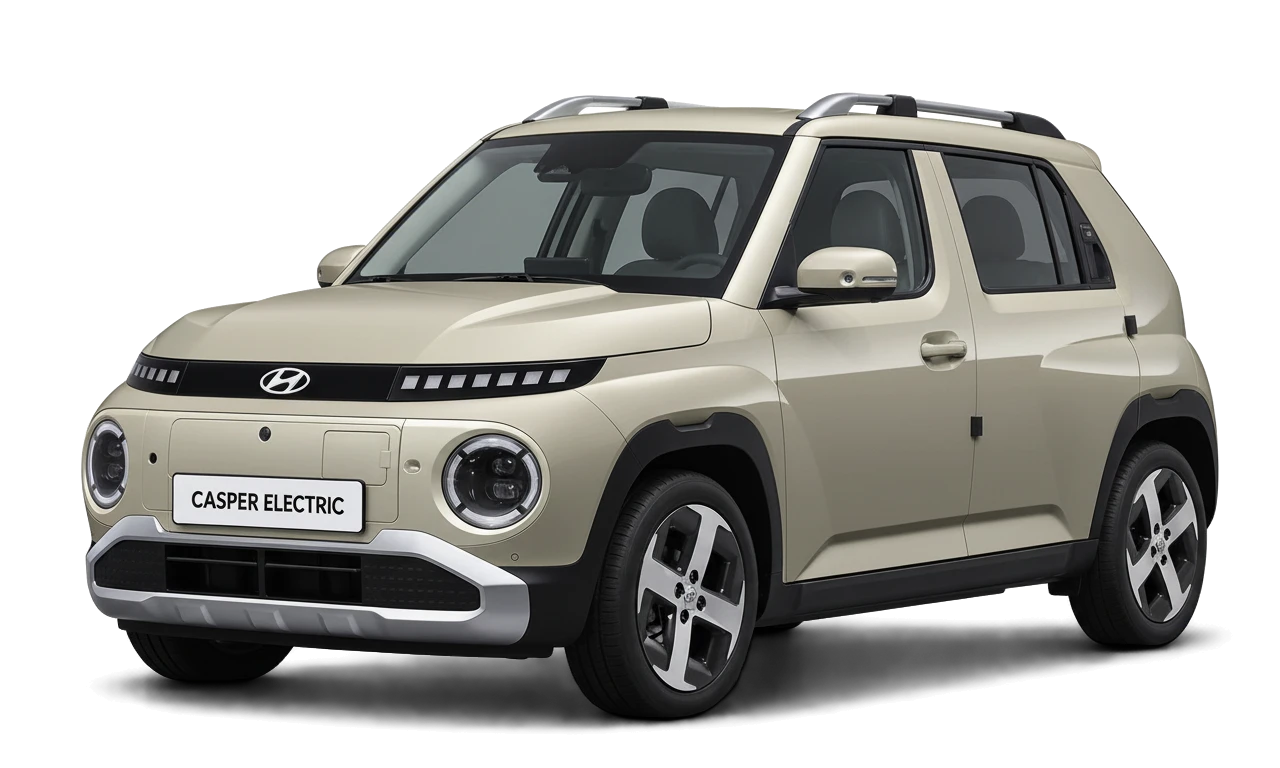
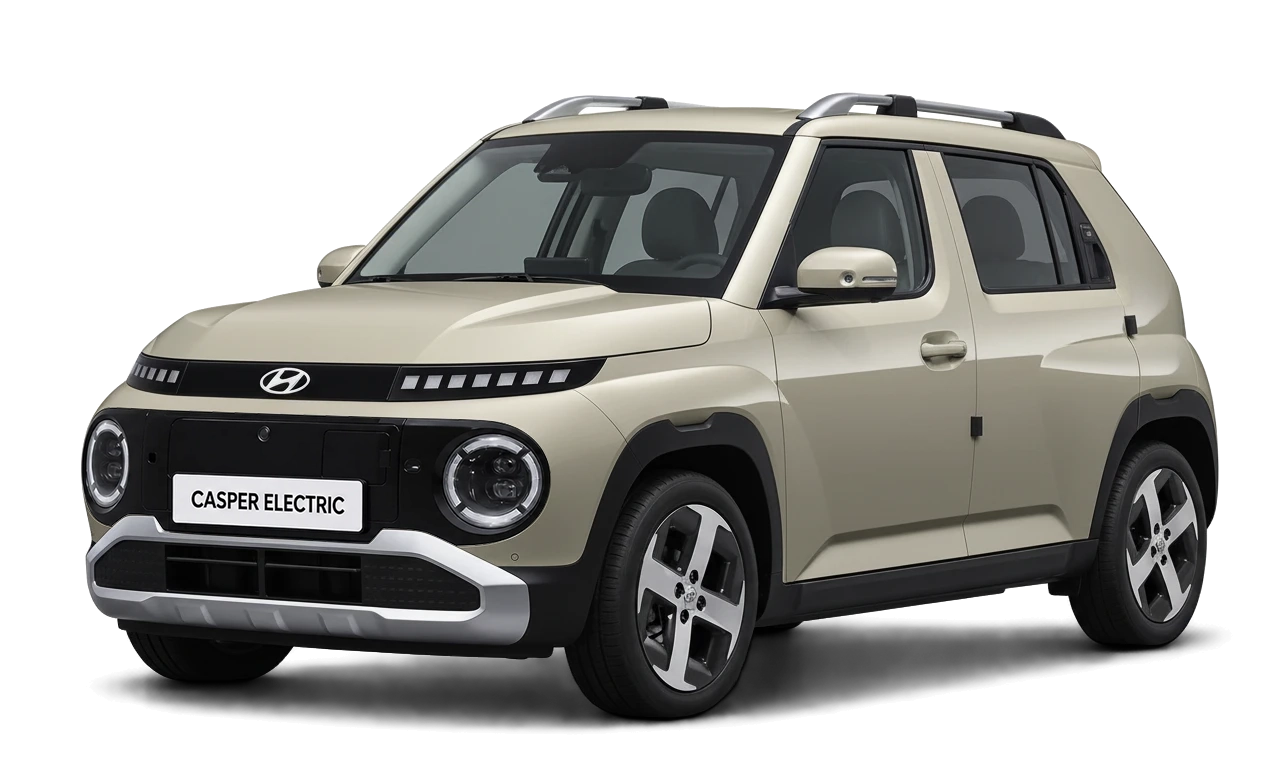
색상칩 HEX 반영 · 스포티지/셀토스 스노우 화이트 펄 · 캐스퍼 일렉트릭 언블리치드 아이보리 이미지 교체
- 재고·견적 색상칩: 이름 대략색 대신 차량 데이터 HEX (트림 색상 정확 일치 → 포함 일치 → 같은 브랜드), 못 찾으면 기존 이름 대략색
- 외장 302/338 · 내장 310/338 HEX 적용 (나머지: 테슬라 영문 색상명 등 → 이름 대략색)
- 셀토스 swp(기존 이미지 위아래 잘림·크림색) · 스포티지 swp · 캐스퍼 일렉트릭 nes 교체 (default 도 같이)
- 차량 이미지 주소에 ?v=<이미지 폴더 해시>: 이미지 교체 시 브라우저 7일 캐시에 옛 이미지 남지 않게

Claude-Session: https://claude.ai/code/session_015TPvCadEnYxxadxay3Q3yw

Changed region(s): [[0.0625, 0.5312, 0.4375, 0.7188]]

diff --git a/pages/data/vehicle-master-helper.js b/pages/data/vehicle-master-helper.js
@@ -205,6 +205,17 @@
   function colorKeyOf(c) { if (!c) return null; if (typeof c === "string") c = IX.color[c] || { id: c }; var k = c.manufacturerCode ? c.manufacturerCode : String(c.id || c.colorId || "").replace(/^[a-z-]+?-color-/, ""); return String(k).toLowerCase().replace(/[^a-z0-9-]+/g, "-") || null; }
   /** 견적(재고 실차)의 외장색 이름 → 이 트림 외장색의 colorKey. 공백·괄호 무시 정확 일치 → 포함 관계. 없으면 null (추정 금지) */
   function colorKeyByName(trimId, name) { if (!name) return null; var n = function (x) { return String(x || "").toLowerCase().replace(/\(.*?\)|\[.*?\]|[\s·\-_/]+/g, ""); }; var q = n(name); if (!q) return null; var cs = getTrimColors(trimId, "EXTERIOR"), i; for (i = 0; i < cs.length; i++) if (n(cs[i].name) === q || (cs[i].nameEn && n(cs[i].nameEn) === q) || (cs[i].manufacturerCode && n(cs[i].manufacturerCode) === q)) return colorKeyOf(cs[i].colorId); for (i = 0; i < cs.length; i++) { var c = n(cs[i].name); if (c && (q.indexOf(c) >= 0 || c.indexOf(q) >= 0)) return colorKeyOf(cs[i].colorId); } return null; }
+  /** 견적 색상 이름 → 차량 데이터의 HEX (색상칩용). 이 트림의 같은 종류(외장/내장) 색상 정확 일치 → 가장 긴 포함 일치 → 같은 브랜드 색상 정확 일치. 없으면 null */
+  function colorHexByName(trimId, name, type) {
+    if (!trimId || !name) return null; var n = function (x) { return String(x || "").toLowerCase().replace(/\(.*?\)|\[.*?\]|[\s·\-_/]+/g, ""); }; var q = n(name); if (!q) return null;
+    var cs = getTrimColors(trimId, type || "EXTERIOR").filter(function (c) { return c.hex; }), i, best = null, bl = 0;
+    for (i = 0; i < cs.length; i++) if (n(cs[i].name) === q || (cs[i].nameEn && n(cs[i].nameEn) === q) || (cs[i].manufacturerCode && n(cs[i].manufacturerCode) === q)) return cs[i].hex;
+    for (i = 0; i < cs.length; i++) { var c = n(cs[i].name); if (c && c.length > bl && (q.indexOf(c) >= 0 || c.indexOf(q) >= 0)) { best = cs[i]; bl = c.length; } }
+    if (best) return best.hex;
+    var t = getTrim(trimId), l = t && IX.lineup[t.lineupId], m = l && IX.model[l.modelId], bid = m && m.brandId; if (!bid) return null;
+    for (var id in IX.color) { var x = IX.color[id]; if (x && x.hex && x.brandId === bid && (n(x.name) === q || (x.nameEn && n(x.nameEn) === q))) return x.hex; }
+    return null;
+  }
   /** 목록 카드용: 재고 외장색 이름 → colorKey. 상세본(트림 색상)이 있으면 그것으로, 없으면 공통본 이미지의 색상명(colorNames)으로. 못 찾으면 null(→ 대표 이미지) */
   function colorKeyForQuote(trimId, name) {
     if (!trimId || !name) return null; var t = getTrim(trimId); if (!t) return null;
@@ -253,7 +264,9 @@
   function getImageColorKeys(trimId) { var t = getTrim(trimId); if (!t) return []; var arr = verifiedFirst(IX.imagesByTrim[trimId]).concat(verifiedFirst(IX.imagesByLineup[t.lineupId])), o = {}, r = []; arr.forEach(function (im) { if (im.colorKey && !o[im.colorKey]) { o[im.colorKey] = 1; r.push(im.colorKey); } }); return r; }
   /** 사이트 루트 기준 상대경로(assets/…)를 현재 페이지 위치에 맞게 보정 (pages/ 하위면 ../) */
   function siteUrl(u) { if (u && /^\/api\//.test(u) && root.CHAQ_API && root.CHAQ_API.base) return String(root.CHAQ_API.base).replace(/\/$/, '') + u;   // 관리자 화면에서 올린 이미지 (/api/pub/media/...)
-    if (!u || /^(https?:|data:|\/|\.\.\/|file:)/.test(u)) return u; var p = (root.location && root.location.pathname) || ""; return /\/pages\//.test(p) ? "../" + u : u; }
+    if (!u || /^(https?:|data:|\/|\.\.\/|file:)/.test(u)) return u; var p = (root.location && root.location.pathname) || "";
+    var v = root.CHAQ_API && root.CHAQ_API.imgVer; if (v && /^assets\/vehicles\//.test(u) && u.indexOf("?") < 0) u += "?v=" + v;   // 차량 이미지 교체 시 브라우저 캐시 갱신 (배포 때 값이 정해짐)
+    return /\/pages\//.test(p) ? "../" + u : u; }
   /** 노출 우선순위: trim VERIFIED → lineup VERIFIED(외장색 일치 → 대표) → fallbacks[] (placeholder) */
   function resolveImageUrl(trimId, fallbacks, preferThumb, colorKey, view) { var im = getPrimaryImage(trimId, colorKey, view); if (im) return siteUrl((preferThumb && im.thumbnailUrl) || im.imageUrl); fallbacks = fallbacks || []; for (var i = 0; i < fallbacks.length; i++) if (fallbacks[i]) return fallbacks[i]; return null; }
   /** 이미지 출처 표기문: 차큐 자체 제작 이미지는 표기 없음(null). 과거 외부 이미지 호환: Commons / 뉴스룸 */
@@ -407,7 +420,7 @@
     getStandardItems: getStandardItems, getTrimOptions: getTrimOptions, getTrimColors: getTrimColors, getColorRules: getColorRules, allowedExteriorColors: allowedExteriorColors,
     getSpecs: getSpecs, getSpecList: getSpecList,
     getPrimaryImage: getPrimaryImage, getImages: getImages, resolveImageUrl: resolveImageUrl, imageCredit: imageCredit,
-    addDetail: addDetail, isDetailLoaded: isDetailLoaded, getTrimOptionCount: getTrimOptionCount, modelIdOfTrim: modelIdOfTrim, getListPrice: getListPrice, getTrimPrice: getTrimPrice, colorKeyOf: colorKeyOf, colorKeyByName: colorKeyByName, colorKeyForQuote: colorKeyForQuote, getImageKey: getImageKey, getImageColorKeys: getImageColorKeys, siteUrl: siteUrl,
+    addDetail: addDetail, isDetailLoaded: isDetailLoaded, getTrimOptionCount: getTrimOptionCount, modelIdOfTrim: modelIdOfTrim, getListPrice: getListPrice, getTrimPrice: getTrimPrice, colorKeyOf: colorKeyOf, colorKeyByName: colorKeyByName, colorKeyForQuote: colorKeyForQuote, colorHexByName: colorHexByName, getImageKey: getImageKey, getImageColorKeys: getImageColorKeys, siteUrl: siteUrl,
     dispName: dispName, imageByName: imageByName, nameParts: nameParts, carNameHtml: carNameHtml, optionPriceByName: optionPriceByName,
     getSources: getSources, fromQuote: fromQuote, getQuotes: getQuotes, pickQuote: pickQuote, quoteView: quoteView, validate: validate
   };

diff --git a/pages/car-detail.html b/pages/car-detail.html
@@ -355,7 +355,7 @@
             window.chaqSwapCarImage = function(tid, ck){ var u = VM.resolveImageUrl(tid, [null], true, ck); if(!u) return; document.querySelectorAll('.detail_car_visual img, .est_visual img').forEach(function(im){ if(im.getAttribute('src')!==u){ im.onerror=function(){ this.onerror=null; this.src=PH; }; im.src=u; } }); };
             var colWrap=document.querySelector('.detail_colors');
             if(colWrap && qv && qv.quoteColors.length){   // 재고 차량 색상은 견적 기준
-                colWrap.innerHTML = [[pk && pk.rec.ext, '외장'], [pk && pk.rec['int'], '내장']].filter(function(x){return x[0];}).map(function(x){ return '<span class="color-tag"><em class="ct_kind">'+x[1]+'</em><i class="color-chip" style="background:'+hex(x[0])+'"></i>'+esc(x[0])+'</span>'; }).join('') || qv.quoteColors.map(function(c){ return '<span class="color-tag"><i class="color-chip" style="background:'+hex(c)+'"></i>'+esc(c)+'</span>'; }).join('');
+                colWrap.innerHTML = [[pk && pk.rec.ext, '외장', 'EXTERIOR'], [pk && pk.rec['int'], '내장', 'INTERIOR']].filter(function(x){return x[0];}).map(function(x){ return '<span class="color-tag"><em class="ct_kind">'+x[1]+'</em><i class="color-chip" style="background:'+hex(x[0], trimId, x[2])+'"></i>'+esc(x[0])+'</span>'; }).join('') || qv.quoteColors.map(function(c){ return '<span class="color-tag"><i class="color-chip" style="background:'+hex(c, trimId)+'"></i>'+esc(c)+'</span>'; }).join('');
             } else if(colWrap){
                 var tags = ext.map(function(c,i){ return '<span class="color-tag">'+(i===0?'<em class="ct_kind">외장</em>':'')+'<i class="color-chip" data-color-code="'+esc(c.manufacturerCode||'')+'" style="background:'+(c.hex||hex(c.name))+'"></i>'+esc(c.name)+(c.extraPrice?('(+'+won(c.extraPrice)+')'):'')+'</span>'; });
                 if(intc.length) tags = tags.concat(intc.map(function(c,i){ return '<span class="color-tag">'+(i===0?'<em class="ct_kind">내장</em>':'')+'<i class="color-chip" style="background:'+(c.hex||hex(c.name))+'"></i>'+esc(c.name)+'</span>'; }));
@@ -453,8 +453,8 @@
             var colWrap=document.querySelector('.detail_colors');
             var vmC = window.CHAQ_VM && rec.trimId && window.CHAQ_VM.getTrimColors;
             if(colWrap && colors.length){
-                colWrap.innerHTML = [[rec.ext,'외장'],[rec['int'],'내장']].filter(function(x){return x[0];}).map(function(x){
-                    return '<span class="color-tag"><em class="ct_kind">'+x[1]+'</em><i class="color-chip" style="background:'+hex(x[0])+'"></i>'+x[0]+'</span>';
+                colWrap.innerHTML = [[rec.ext,'외장','EXTERIOR'],[rec['int'],'내장','INTERIOR']].filter(function(x){return x[0];}).map(function(x){
+                    return '<span class="color-tag"><em class="ct_kind">'+x[1]+'</em><i class="color-chip" style="background:'+hex(x[0], rec.trimId, x[2])+'"></i>'+String(x[0]).replace(/</g,'&lt;')+'</span>';
                 }).join('');
             } else if(colWrap && vmC){   // 견적에 색상이 없으면 차량 데이터(마스터)의 색상
                 var vx = window.CHAQ_VM.getTrimColors(rec.trimId,'EXTERIOR'), vi = window.CHAQ_VM.getTrimColors(rec.trimId,'INTERIOR');
@@ -494,7 +494,7 @@
                 var vmTag = (qv && !qv.sameYear && qv.vmUsable) ? (' ('+qv.vmModelYear+'년형 공식 가격표 기준)') : '';
                 var escH = function(x){ return String(x==null?'':x).replace(/&/g,'&amp;').replace(/</g,'&lt;').replace(/"/g,'&quot;'); };
                 var html='<p class="opt_sec">등급</p><button type="button" class="opt_row on" data-grp="trim"><span>'+escH(rec.trim||(qv&&qv.trimLabel)||'기본')+'</span><em>선택</em></button>';
-                if(colors.length){ html+='<p class="opt_sec">색상</p>'+colors.map(function(c,i){return '<button type="button" class="opt_row'+(i===0?' on':'')+'" data-grp="color" data-color-key="'+escH((rec.trimId&&window.CHAQ_VM&&window.CHAQ_VM.colorKeyByName(rec.trimId,c))||'')+'" data-price="0"><i class="color-chip" style="background:'+hex(c)+'"></i><span>'+escH(c)+'</span></button>';}).join(''); }
+                if(colors.length){ html+='<p class="opt_sec">색상</p>'+colors.map(function(c,i){return '<button type="button" class="opt_row'+(i===0?' on':'')+'" data-grp="color" data-color-key="'+escH((rec.trimId&&window.CHAQ_VM&&window.CHAQ_VM.colorKeyByName(rec.trimId,c))||'')+'" data-price="0"><i class="color-chip" style="background:'+hex(c, rec.trimId, i===0&&rec.ext?'EXTERIOR':'INTERIOR')+'"></i><span>'+escH(c)+'</span></button>';}).join(''); }
                 else if(vmExt.length){ var d0=Math.max(0,vmExt.findIndex(function(c){return !c.extraPrice;})); html+='<p class="opt_sec">색상</p>'+vmExt.map(function(c,i){return '<button type="button" class="opt_row'+(i===d0?' on':'')+'" data-grp="color" data-color-key="'+escH(window.CHAQ_VM.colorKeyOf(c.colorId)||'')+'" data-price="'+(c.extraPrice||0)+'"><i class="color-chip" data-color-code="'+escH(c.manufacturerCode||'')+'" style="background:'+(c.hex||hex(c.name))+'"></i><span>'+escH(c.name)+'</span>'+(c.extraPrice?('<em>+'+won(c.extraPrice)+'원</em>'):'')+'</button>';}).join(''); }
                 if(opts.length){ html+='<p class="opt_sec">장착 옵션 (견적 기준)</p>'+opts.map(function(o){return '<button type="button" class="opt_row opt-multi on" data-grp="opt" data-fixed="1"><span>'+escH(o.n)+'</span>'+(o.p?('<em>+'+won(o.p)+'원</em>'):'<em>포함</em>')+'</button>';}).join(''); }
                 else if(vmOpt.length){ html+='<p class="opt_sec">추가 옵션'+escH(vmTag)+'</p>'+vmOpt.map(function(o){return '<button type="button" class="opt_row opt-multi" data-grp="opt" data-price="'+(o.price||0)+'"><span>'+escH(o.name)+'</span>'+(o.price!=null?('<em>+'+won(o.price)+'원</em>'):'<em>가격 확인</em>')+'</button>';}).join(''); }

diff --git a/pages/data/site-util.js b/pages/data/site-util.js
@@ -1,6 +1,6 @@
 /* 차큐 사이트 공통 함수 (여러 페이지가 같이 씀) — 글자 이스케이프 · 금액 · 차량 이미지 · 색상칩 · 숫자 애니메이션
    · 페이지마다 복사돼 있던 같은 함수를 한 곳으로 모음 (261008 코드 정비)
-   · 사용: window.CHAQ_UTIL.esc(s) / won(n) / PH / carImg(rec) / hex(colorName) / animateNum(el, to, em, nullText) */
+   · 사용: window.CHAQ_UTIL.esc(s) / won(n) / PH / carImg(rec) / hex(colorName[, trimId, type]) / animateNum(el, to, em, nullText) */
 (function (root) {
   "use strict";
   var inPages = /\/pages\//.test(root.location && root.location.pathname || "");
@@ -17,8 +17,9 @@
       return (VM.imageByName && VM.imageByName(r.brand, r.model)) || PH;   // 트림 미연결 견적: 같은 모델 대표 이미지
     } catch (e) { return PH; }
   }
-  /** 색상 이름 → 색상칩 대략 색 (차량 데이터에 HEX 가 없을 때) */
-  function hex(name) {
+  /** 색상 이름 → 색상칩 색. trimId 가 있으면 차량 데이터의 HEX(type: EXTERIOR·INTERIOR), 못 찾으면 이름으로 대략 색 */
+  function hex(name, trimId, type) {
+    if (trimId) { try { var h = root.CHAQ_VM && root.CHAQ_VM.colorHexByName && root.CHAQ_VM.colorHexByName(trimId, name, type); if (h) return h; } catch (e) {} }
     var n = String(name || "");
     if (/화이트|white|스노우|아이보리|백/i.test(n)) return "#eef0f2";
     if (/블랙|black|느와르|오닉스|원톤|모노톤/i.test(n)) return "#1b1b1d";
